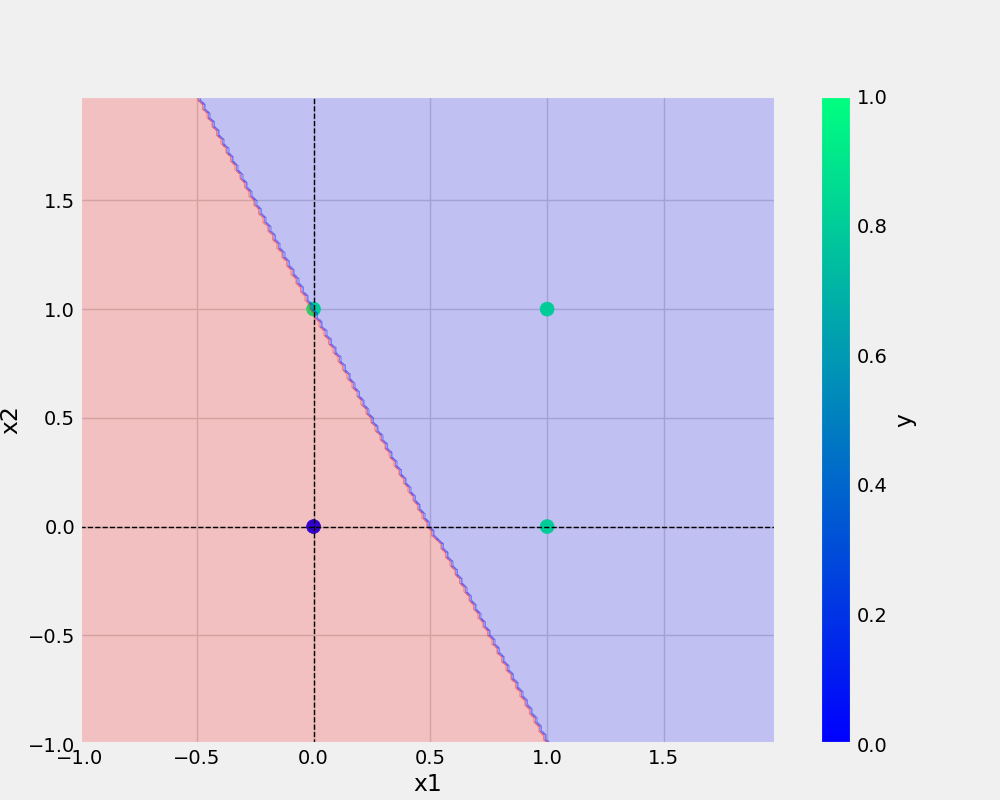
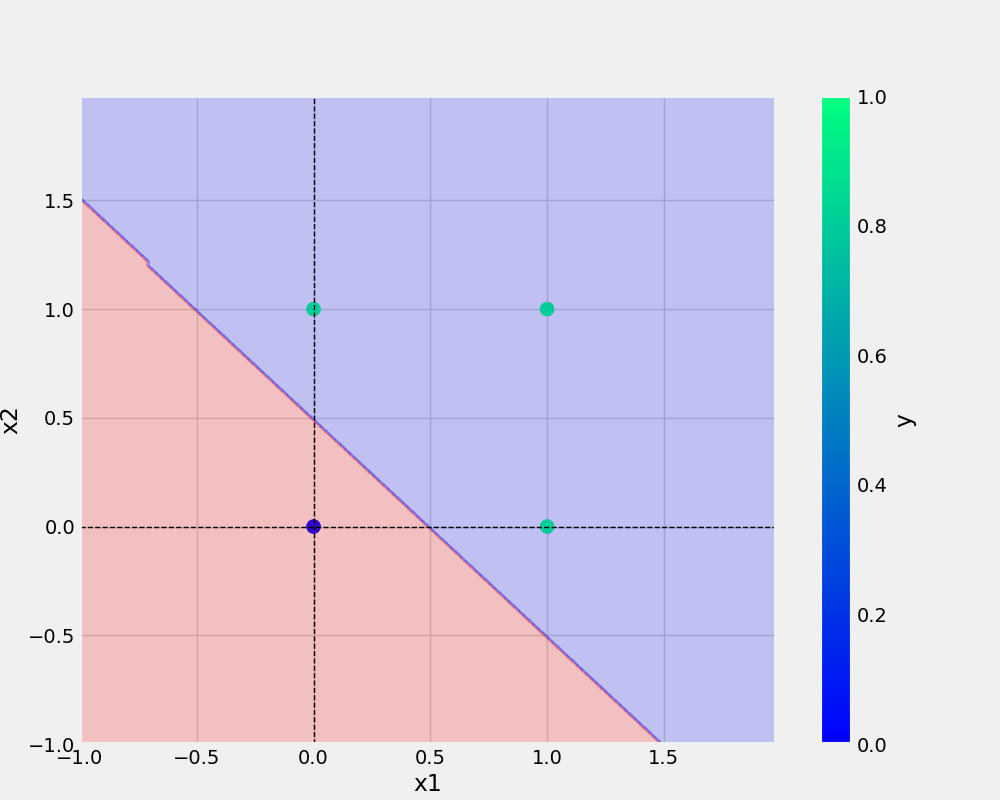
logging added and progress bar done

Changed region(s): [[0.062, 0.125, 0.434, 0.6562], [0.434, 0.6562, 0.651, 0.9375]]

diff --git a/utils/all_utils.py b/utils/all_utils.py
@@ -1,74 +1,79 @@
 import matplotlib.pyplot as plt
 import numpy as np
-import pandas as pd
-import joblib # FOR SAVING MY MODEL AS A BINARY FILE
+import joblib  # FOR SAVING MY MODEL AS A BINARY FILE
 from matplotlib.colors import ListedColormap
 import os
+import logging
 
 plt.style.use("fivethirtyeight")
 
-def prepare_data(df):
-  """it is used to separate the dependent varaiables and independent features   
-  Args:   
-      df (pd.DataFrame): its the pandas DataFrame to
 
-  Returns:
-      tuple: it returns the tuples of dependent variables and independent variables
-  """
-  X = df.drop("y", axis=1)
-  y = df["y"]
-  return X, y
+def prepare_data(df):
+    """it is used to separate the dependent variables and independent features
+    Args:
+        df (pd.DataFrame): its the pandas DataFrame to
+    Returns:
+        tuple: it returns the tuples of dependent variables and independent variables
+    """
+    logging.info("Preparing the data by segregating the independent and dependent variables")
+    x = df.drop("y", axis=1)
+    y = df["y"]
+    return x, y
+
 
 def save_model(model, filename):
-  """This saves the trained model to
-
-  Args:
-      model (python object): trained model to
-      filename (str): path to save the trained model
-  """
-  model_dir = "models"
-  os.makedirs(model_dir, exist_ok=True) # ONLY CREATE IF MODEL_DIR DOESN"T EXISTS
-  filePath = os.path.join(model_dir, filename) # model/filename
-  joblib.dump(model, filePath)
-
-def save_plot(df, file_name, model):  
-  def _create_base_plot(df):
-    df.plot(kind="scatter", x="x1", y="x2", c="y", s=100, cmap="winter")
-    plt.axhline(y=0, color="black", linestyle="--", linewidth=1)
-    plt.axvline(x=0, color="black", linestyle="--", linewidth=1)
-    figure = plt.gcf() # get current figure
-    figure.set_size_inches(10, 8)
-
-  def _plot_decision_regions(X, y, classfier, resolution=0.02):
-    colors = ("red", "blue", "lightgreen", "gray", "cyan")
-    cmap = ListedColormap(colors[: len(np.unique(y))])
-
-    X = X.values # as a array
-    x1 = X[:, 0] 
-    x2 = X[:, 1]
-    x1_min, x1_max = x1.min() -1 , x1.max() + 1
-    x2_min, x2_max = x2.min() -1 , x2.max() + 1  
-
-    xx1, xx2 = np.meshgrid(np.arange(x1_min, x1_max, resolution), 
-                           np.arange(x2_min, x2_max, resolution))
-    print(xx1)
-    print(xx1.ravel())
-    Z = classfier.predict(np.array([xx1.ravel(), xx2.ravel()]).T)
-    Z = Z.reshape(xx1.shape)
-    plt.contourf(xx1, xx2, Z, alpha=0.2, cmap=cmap)
-    plt.xlim(xx1.min(), xx1.max())
-    plt.ylim(xx2.min(), xx2.max())
-
-    plt.plot()
+    """This saves the trained model to
+    Args:
+        model (python object): trained model to
+        filename (str): path to save the trained model
+    """
+    logging.info("saving the trained model")
+    model_dir = "models"
+    os.makedirs(model_dir, exist_ok=True)  # ONLY CREATE IF MODEL_DIR DOES NOT EXISTS
+    filepath = os.path.join(model_dir, filename)  # model/filename
+    joblib.dump(model, filepath)
+    logging.info(f"saved the trained model {filepath}")
 
 
 
-  X, y = prepare_data(df)
+def save_plot(df, file_name, model):
+    """
+    :param df: its a dataframe
+    :param file_name: its path to save the plot
+    :param model: trained model
+    """
+    def _create_base_plot(df):
+        logging.info("creating the base plot")
+        df.plot(kind="scatter", x="x1", y="x2", c="y", s=100, cmap="winter")
+        plt.axhline(y=0, color="black", linestyle="--", linewidth=1)
+        plt.axvline(x=0, color="black", linestyle="--", linewidth=1)
+        figure = plt.gcf()  # get current figure
+        figure.set_size_inches(10, 8)
 
-  _create_base_plot(df)
-  _plot_decision_regions(X, y, model)
+    def _plot_decision_regions(X, y, classifier, resolution=0.02):
+        logging.info("plotting the decision regions")
+        colors = ("red", "blue", "lightgreen", "gray", "cyan")
+        colormap = ListedColormap(colors[: len(np.unique(y))])
 
-  plot_dir = "plots"
-  os.makedirs(plot_dir, exist_ok=True) # ONLY CREATE IF MODEL_DIR DOESN"T EXISTS
-  plotPath = os.path.join(plot_dir, file_name) # model/filename
-  plt.savefig(plotPath)
+        X = X.values  # as a array
+        x1 = X[:, 0]
+        x2 = X[:, 1]
+        x1_min, x1_max = x1.min() - 1, x1.max() + 1
+        x2_min, x2_max = x2.min() - 1, x2.max() + 1
+
+        xx1, xx2 = np.meshgrid(np.arange(x1_min, x1_max, resolution),
+                               np.arange(x2_min, x2_max, resolution))
+        Z = classifier.predict(np.array([xx1.ravel(), xx2.ravel()]).T)
+        Z = Z.reshape(xx1.shape)
+        plt.contourf(xx1, xx2, Z, alpha=0.2, cmap=colormap)
+        plt.xlim(xx1.min(), xx1.max())
+        plt.ylim(xx2.min(), xx2.max())
+        plt.plot()
+    X, y = prepare_data(df)
+    _create_base_plot(df)
+    _plot_decision_regions(X, y, model)
+    plot_dir = "plots"
+    os.makedirs(plot_dir, exist_ok=True)  # ONLY CREATE IF MODEL_DIR DOES NOT EXISTS
+    plotPath = os.path.join(plot_dir, file_name)  # model/filename
+    plt.savefig(plotPath)
+    logging.info(f"saving the plot at {plotPath}")

diff --git a/utils/model.py b/utils/model.py
@@ -1,9 +1,11 @@
 import numpy as np
+import logging
+from tqdm import tqdm
 
 class Perceptron:
   def __init__(self, eta, epochs):
     self.weights = np.random.randn(3) * 1e-4 # SMALL WEIGHT INIT
-    print(f"initial weights before training: \n{self.weights}")
+    logging.info(f"initial weights before training: \n{self.weights}")
     self.eta = eta # LEARNING RATE
     self.epochs = epochs 
 
@@ -17,20 +19,20 @@ class Perceptron:
     self.y = y
 
     X_with_bias = np.c_[self.X, -np.ones((len(self.X), 1))] # CONCATINATION
-    print(f"X with bias: \n{X_with_bias}")
+    logging.info(f"X with bias: \n{X_with_bias}")
 
-    for epoch in range(self.epochs):
-      print("--"*10)
-      print(f"for epoch: {epoch}")
-      print("--"*10)
+    for epoch in tqdm(range(self.epochs), total=self.epochs, desc="training the model"):
+      logging.info("--"*10)
+      logging.info(f"for epoch: {epoch}")
+      logging.info("--"*10)
 
       y_hat = self.activationFunction(X_with_bias, self.weights) # foward propagation
-      print(f"predicted value after forward pass: \n{y_hat}")
+      logging.info(f"predicted value after forward pass: \n{y_hat}")
       self.error = self.y - y_hat
-      print(f"error: \n{self.error}")
+      logging.info(f"error: \n{self.error}")
       self.weights = self.weights + self.eta * np.dot(X_with_bias.T, self.error) # backward propagation
-      print(f"updated weights after epoch:\n{epoch}/{self.epochs} : \n{self.weights}")
-      print("#####"*10)
+      logging.info(f"updated weights after epoch:\n{epoch}/{self.epochs} : \n{self.weights}")
+      logging.info("#####"*10)
 
 
   def predict(self, X):
@@ -39,6 +41,5 @@ class Perceptron:
 
   def total_loss(self):
     total_loss = np.sum(self.error)
-    print(f"total loss: {total_loss}")
+    logging.info(f"total loss: {total_loss}")
     return total_loss
-

diff --git a/or.py b/or.py
@@ -1,37 +1,39 @@
+
 from utils.model import Perceptron
 from utils.all_utils import prepare_data, save_plot, save_model
 import pandas as pd
+import logging
+import os
+
+logging_str = "[%(asctime)s: %(levelname)s: %(module)s] %(message)s"
+log_dir = "logs"
+os.makedirs(log_dir, exist_ok=True)
+logging.basicConfig(filename= os.path.join(log_dir,"running_logs.log"),level=logging.INFO, format=logging_str, filemode="a")
 
 
-def main(data, modelname, plotname, eta, epochs):
-
+def main(data, modelName, plotName, eta, epochs):
     df = pd.DataFrame(data)
-
-    print(df)
-
-    X,y = prepare_data(df)
-
-
-
+    logging.info(f"This is actual dataframe{df}")
+    X, y = prepare_data(df)
     model = Perceptron(eta=eta, epochs=epochs)
     model.fit(X, y)
-
     _ = model.total_loss()
-
-    save_model(model, filename=modelname)
-    save_plot(df, plotname, model)
-
+    save_model(model, filename=modelName)
+    save_plot(df, plotName, model)
 
 
 if __name__ == '__main__':
-
     OR = {
         "x1": [0,0,1,1],
         "x2": [0,1,0,1],
         "y": [0,1,1,1],
     }
-
     ETA = 0.3 # 0 and 1
-    EPOCHS = 10
-
-    main(data=OR, modelname="or.model", plotname="or.png", eta=ETA, epochs=EPOCHS)
+    EPOCHS = 100
+    try:
+        logging.info(">>>>> starting training >>>>>")
+        main(data=OR, modelName="or.model", plotName="or.png", eta=ETA, epochs=EPOCHS)
+        logging.info("<<<<< training done successfully<<<<<\n")
+    except Exception as e:
+        logging.exception(e)
+        raise e
